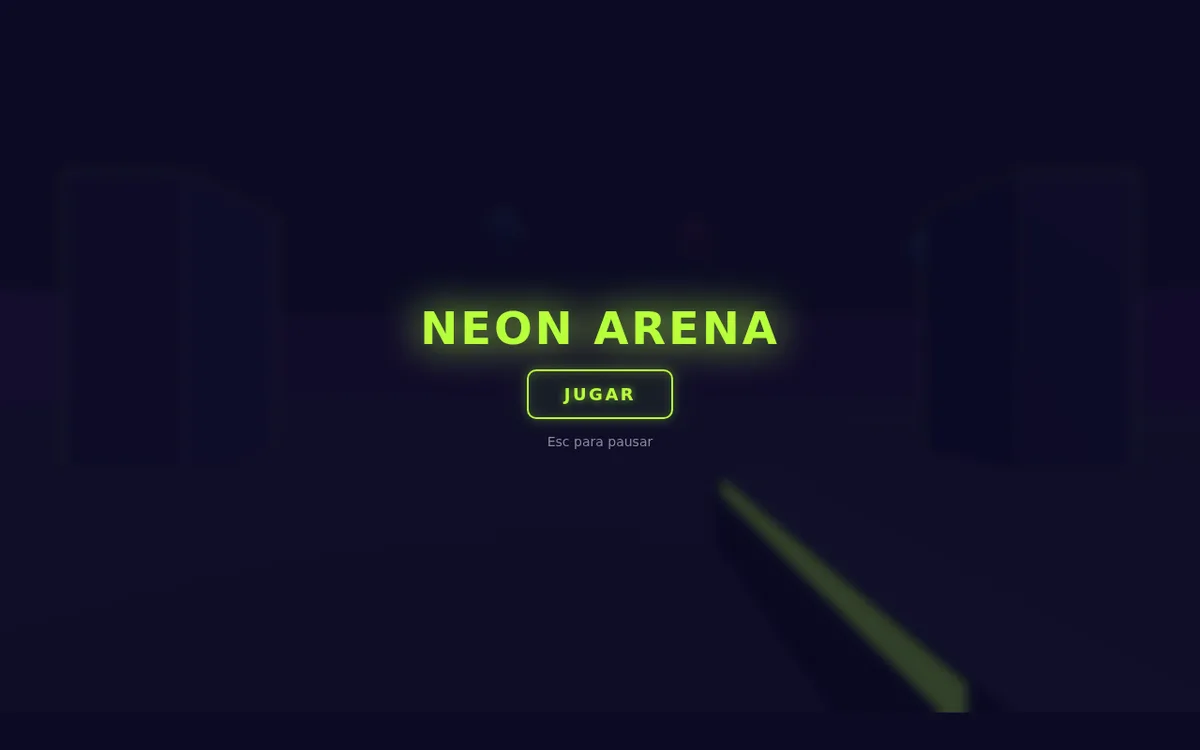
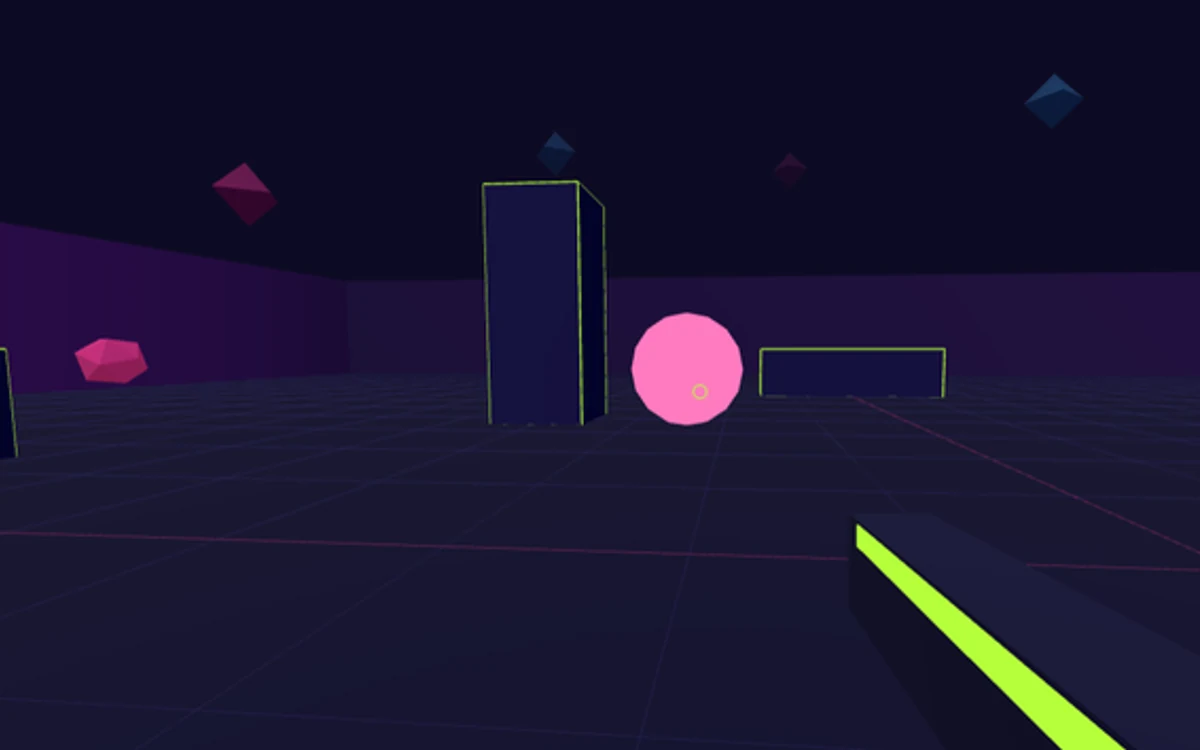
Dues columnes per als jocs de la casa i crèdit a la portada
Els dos jocs de la casa (ulaFootball i Neon Arena) ara comparteixen una
fila pròpia de dues columnes, en lloc d'ocupar cadascun tota l'amplada
de la graella, i la descripció del hero es limita a dues línies.

- assets/js/ui.js
  - loadMore agrupa les cards hero consecutives dins d'un `.hero-row`;
    si un filtre només en deixa una, el CSS la fa ocupar tota la fila.
  - pruneGrid compta les cards reals (no els fills) perquè el contenidor
    de dues cards no desquadri el límit de 150, i allibera la portada de
    totes les imatges del bloc que desmunta.
  - Nou camp opcional `credit`: buildHeroCard el pinta com a badge
    damunt de la portada.

- assets/js/gameList.js
  - Neon Arena porta `credit: "A. Barrera"` i el camp queda documentat.

- assets/css/components.css
  - `.hero-row` amb dues columnes iguals; a ≤900 px passa a una fila i a
    ≤640 px manté l'apilat mòbil de sempre.
  - La descripció del hero es limita a dues línies amb punts suspensius
    (`-webkit-line-clamp`).
  - Badge de crèdit discret a la cantonada de la portada, sense
    interceptar el clic.

- assets/images/neonarena.webp
  - Nova portada a partir de la captura de joc indicada (1200x750,
    16:10, retallada i convertida a WebP).

Verificat amb Playwright: a 1440/1200/1024/901 px les dues cards van
costat a costat i a 900/820/641/640/390 px passen a una columna; la
descripció ocupa exactament dues línies amb ellipsi; el badge "A.
[…]

diff --git a/assets/js/ui.js b/assets/js/ui.js
@@ -306,7 +306,8 @@ function buildCard(game) {
  *
  * No és una targeta de la graella retocada: és una peça nova, amb la
  * portada a l'esquerra i el nom, una explicació i el botó de jugar a la
- * dreta. Ocupa tota l'amplada però l'alçada d'una targeta normal.
+ * dreta. Les cards de la casa van dins d'un `.hero-row` que les
+ * reparteix en dues columnes.
  *
  * El botó no té comportament propi: la card sencera és clicable (el
  * delegat del grid decideix entre obrir i baixar) i el botó només
@@ -322,6 +323,15 @@ function buildHeroCard(game) {
     const cover = document.createElement('div');
     cover.className = 'hero-card__cover';
     appendCover(cover, game);
+
+    // Crèdit damunt de la portada (l'autor de la captura o del joc),
+    // si l'entrada en declara un.
+    if (game.credit) {
+        const credit = document.createElement('span');
+        credit.className = 'hero-card__credit';
+        credit.textContent = game.credit;
+        cover.appendChild(credit);
+    }
 
     const title = document.createElement('h3');
     title.className = 'hero-card__title';
@@ -541,8 +551,22 @@ export function loadMore() {
     if (batch.length === 0) return;
 
     const fragment = document.createDocumentFragment();
+    // Les cards de la casa comparteixen una fila pròpia: el contenidor
+    // les reparteix en dues columnes i, si només n'hi ha una, la deixa
+    // ocupar tota l'amplada.
+    let heroRow = null;
     for (const game of batch) {
-        fragment.appendChild(game.hero ? buildHeroCard(game) : buildCard(game));
+        if (game.hero) {
+            if (!heroRow) {
+                heroRow = document.createElement('div');
+                heroRow.className = 'hero-row';
+                fragment.appendChild(heroRow);
+            }
+            heroRow.appendChild(buildHeroCard(game));
+        } else {
+            heroRow = null;
+            fragment.appendChild(buildCard(game));
+        }
     }
     grid.appendChild(fragment);
 
@@ -565,14 +589,22 @@ function pruneGrid() {
     const grid = $('gameGrid');
     if (!grid) return;
 
-    const excess = grid.children.length - MAX_DOM_CARDS;
-    for (let i = 0; i < excess; i++) {
+    // Un `.hero-row` pot dur més d'una card: es compten les peces, no
+    // els fills, perquè la fila dels jocs de la casa no desquadri el
+    // límit de la virtualització.
+    let excess = grid.querySelectorAll('.card-wrapper, .hero-card').length - MAX_DOM_CARDS;
+    while (excess > 0 && grid.firstElementChild) {
+        const block = grid.firstElementChild;
+        const count = block.classList.contains('hero-row')
+            ? block.querySelectorAll('.hero-card').length
+            : 1;
+
         // Abans de desmuntar-la, es deixa la portada: el navegador ja
         // pot alliberar el seu bitmap (RAM), perquè la targeta no hi
         // tornarà. Si la graella es refés, es reconstruiria sencera.
-        const card = grid.firstElementChild;
-        card.querySelector('img')?.removeAttribute('src');
-        card.remove();
+        for (const img of block.querySelectorAll('img')) img.removeAttribute('src');
+        block.remove();
+        excess -= count;
     }
 }
 

diff --git a/assets/css/components.css b/assets/css/components.css
@@ -494,12 +494,23 @@ html[dir="rtl"] .lang-menu {
 
 /* --- LA CARD DE LA CASA (gameList.js amb `hero: true`) ------------
    Presentació del joc propi: portada a l'esquerra, i a la dreta el
-   nom, una explicació i el botó de jugar. Ocupa tota l'amplada de la
-   graella però l'alçada d'una targeta normal. No és una `.card`
-   reenganyada: la peça és nova de caps i panses. */
+   nom, una explicació i el botó de jugar. Totes les cards de la casa
+   viuen dins d'un `.hero-row` que ocupa tota l'amplada de la graella i
+   les reparteix en dues columnes. No és una `.card` reenganyada: la
+   peça és nova de caps i panses. */
+
+.hero-row {
+    grid-column: 1 / -1;
+    display: grid;
+    grid-template-columns: repeat(2, minmax(0, 1fr));
+    gap: 20px;
+}
+
+/* Si un filtre només deixa una card de la casa, no ha de quedar-se
+   amb mitja fila buida. */
+.hero-row > :only-child { grid-column: 1 / -1; }
 
 .hero-card {
-    grid-column: 1 / -1;
     position: relative;
     display: flex;
     align-items: center;
@@ -537,6 +548,27 @@ html[dir="rtl"] .lang-menu {
     object-fit: cover; display: block;
 }
 
+/* Crèdit de la portada: una pastilla discreta a la cantonada, que no
+   intercepta el clic (la card sencera obre el joc). */
+.hero-card__credit {
+    position: absolute;
+    inset-block-end: 8px;
+    inset-inline-end: 8px;
+    z-index: 1;
+    padding: 3px 8px;
+    border: 1px solid rgba(255, 255, 255, 0.22);
+    border-radius: 999px;
+    background: rgba(0, 0, 0, 0.55);
+    color: #fff;
+    font-size: 10px;
+    font-weight: 600;
+    line-height: 1.2;
+    letter-spacing: 0.02em;
+    text-shadow: 0 1px 2px rgba(0, 0, 0, 0.45);
+    backdrop-filter: blur(4px);
+    pointer-events: none;
+}
+
 .hero-card__body {
     flex: 1 1 auto;
     min-width: 0;            /* el nom i el text poden retallar, no desbordar */
@@ -559,6 +591,15 @@ html[dir="rtl"] .lang-menu {
     line-height: 1.45;
     opacity: 0.8;
     color: var(--text-main);
+
+    /* Dues línies i prou: el que no hi cap acaba amb punts suspensius
+       (`-webkit-line-clamp` és el que implementen tots els navegadors
+       actuals; `line-clamp` queda com a nom estàndard). */
+    display: -webkit-box;
+    -webkit-box-orient: vertical;
+    -webkit-line-clamp: 2;
+    line-clamp: 2;
+    overflow: hidden;
 }
 
 .hero-card__btn {
@@ -583,9 +624,16 @@ html[dir="rtl"] .lang-menu {
 .hero-card__btn svg { width: 16px; height: 16px; flex-shrink: 0; }
 .hero-card__percent { font-size: 14px; font-weight: 700; letter-spacing: 0.2px; }
 
-/* Mòbil: la portada damunt (al seu format natiu 3:1, sense retall) i
-   el text sota. La card fa poc més d'una pantalla de targeta. */
+/* Amb menys de 900 px les dues columnes ja no deixen espai per a la
+   portada al costat del text: les cards de la casa passen a una fila. */
+@media (max-width: 900px) {
+    .hero-row { grid-template-columns: 1fr; }
+}
+
+/* Mòbil: la portada damunt (en format apaïsat 3:1) i el text sota. La
+   card fa poc més d'una pantalla de targeta. */
 @media (max-width: 640px) {
+    .hero-row { gap: 14px; }
     .hero-card {
         flex-direction: column;
         align-items: stretch;

diff --git a/assets/js/gameList.js b/assets/js/gameList.js
@@ -12,6 +12,8 @@
  *          card a part, amb portada a l'esquerra i text i botó a la dreta
  *   descKey (opcional) clau d'i18n de la descripció de la card hero;
  *          sense ella, s'usa la de ulaFootball (`ula.desc`)
+ *   credit (opcional) crèdit que surt com a badge sobre la portada
+ *          (p. ex. l'autor de la captura o del joc)
  *
  * 1867 jocs. Aquest fitxer és dades pures: no importa res i no fa res,
  * només exporta la llista.
@@ -22,7 +24,7 @@
 
 export const GAMES = [
    { name: "ulaFootball", url: "ulafootball.html", image: "assets/images/ulafootball.webp", type: "ula", offline: true, hero: true },
-   { name: "Neon Arena", url: "arenagame/index.html", image: "assets/images/neonarena.webp", type: "ula", hero: true, descKey: "neon.desc" },
+   { name: "Neon Arena", url: "arenagame/index.html", image: "assets/images/neonarena.webp", type: "ula", hero: true, descKey: "neon.desc", credit: "A. Barrera" },
    { name: "Crossbar Challenge", url: "crossbarchallenge.html", image: "assets/images/crossbarchallenge.webp", type: "esports" },
    { name: "Penalty Kicks", url: "penaltykicks.html", image: "assets/images/penaltykicks.jpg", type: "esports" },
    { name: "Tony Hawk's Existential Nightmare", url: "tonyhawks.html", image: "assets/images/tonyhawks.jpg", type: "esports" },
